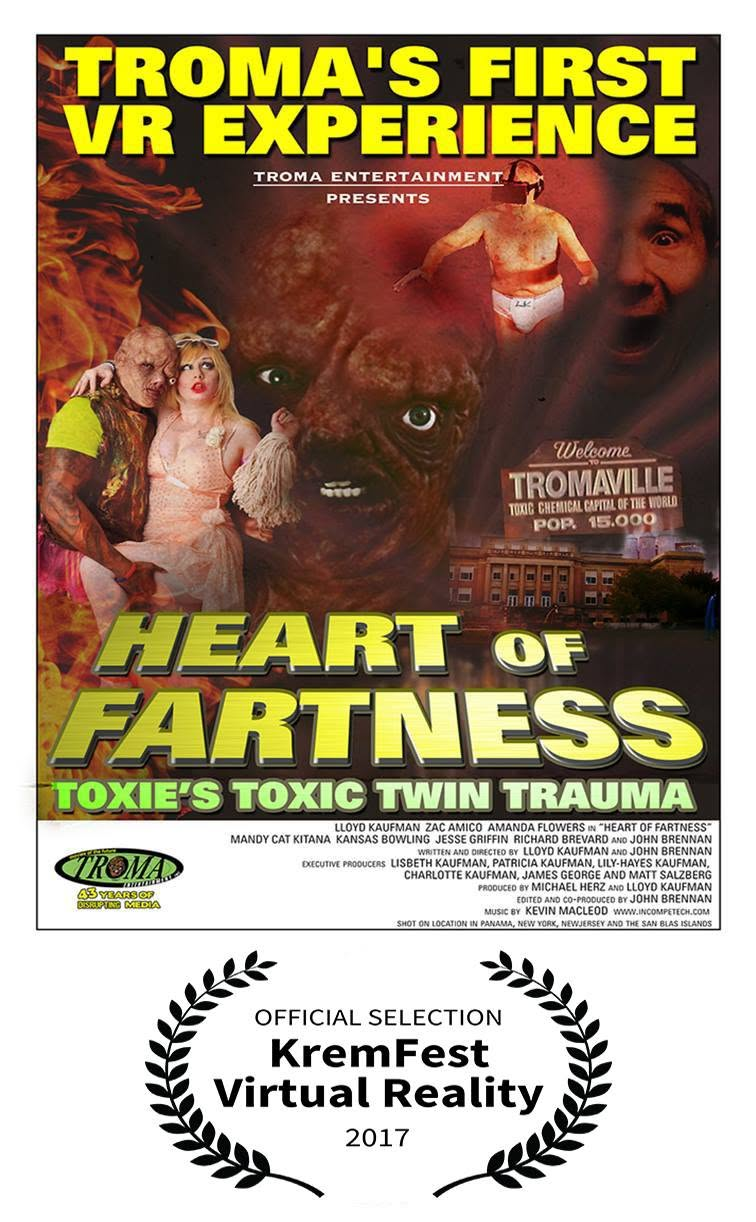
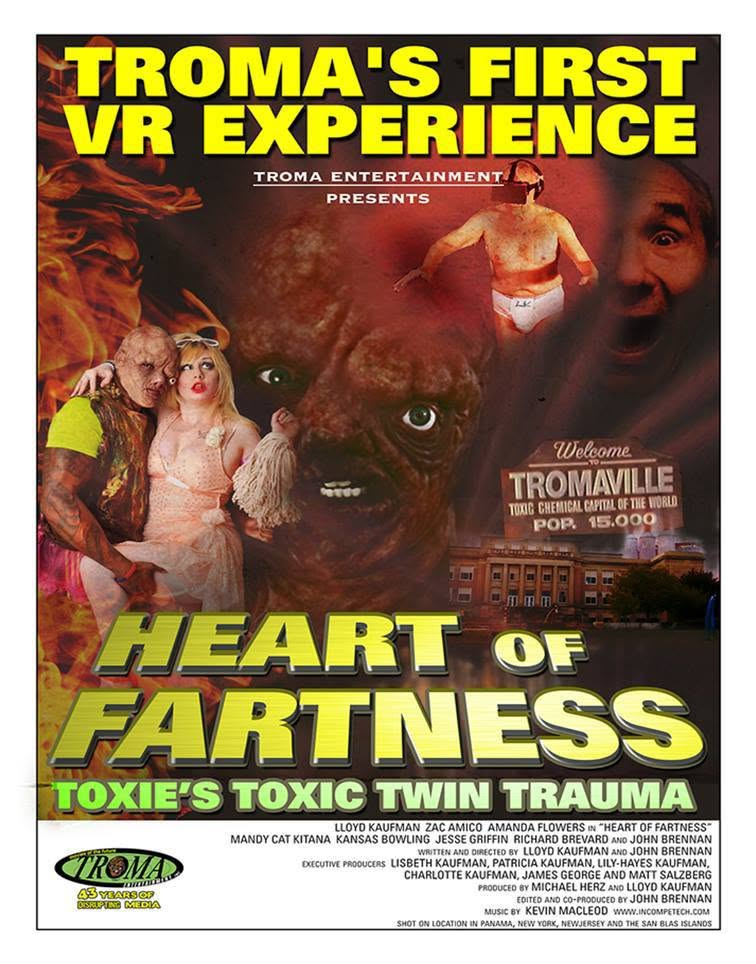
feat(2017): Integrate Shameful Conquest laurels and cropped Troma poster (v0.1.33)

diff --git a/dashboard/index.html b/dashboard/index.html
@@ -121,7 +121,7 @@
       <span style="color:#94a3b8; font-size:0.85rem;">Active Substrate</span>
     </div>
     <div class="stats-row">
-      <span class="stat-pill pill-qa">🧪 19 Waiting QA</span>
+      <span class="stat-pill pill-qa">🧪 20 Waiting QA</span>
       <span class="stat-pill pill-prog">🛠 1 In Progress</span>
       <span class="stat-pill pill-done">🏆 12 Verified</span>
       <span class="stat-pill pill-meta">🎬 25 Master Projects</span>
@@ -151,7 +151,7 @@
     <div class="card">
       <h2 style="color:var(--neon-yellow);">🧪 Waiting for QA (Verification)</h2>
       <ul style="list-style:none; padding:0;">
-        <li style="margin-bottom:8px; color:#f1f5f9; font-size:0.9rem;">🧪 🏗 🔥🔥🔥 **2017 Genesis Archive Visuals & Troma Official Selection Poster (v0.1.32):** Integrated the authentic 2017 Kremfest festival poster (`kremfest_2017_banner.webp`) into the 2017 guide hero, linked the authentic Troma *Heart of Fartness* poster with official KremFest VR 2017 laurel (`heart_of_fartness_2017.jpg`), and cleanly cleared placeholder imagery for *Shameful Conquest*. 🧪 🏛 🖼 🎬 🥽 🧙♂ 🐈</li><li style="margin-bottom:8px; color:#f1f5f9; font-size:0.9rem;">🧪 🏗 🔥🔥🔥 **2018 & 2019 Experience Title Highlighting & Master Marketing/AI Frameworks (v0.1.31):** Formatted all experience titles in bold quotes across 2018 and 2019 hero introduction texts, created comprehensive multi-platform social media campaign launch grimoire (LinkedIn, Facebook, Reddit, Instagram, Bluesky), and drafted the 0–5 Heat Meter AI Transparency and Post-Submission Intake Framework. 🧪 📢 🤖 ✍ 🥽 🧙♂ 🐈</li><li style="margin-bottom:8px; color:#f1f5f9; font-size:0.9rem;">🧪 🏗 🔥🔥🔥 **2019 Sponsor Alignment (Immersive Square Excluded from 2019 - v0.1.30):** Removed Immersive Square logo from 2019 retrospective sponsors (preserving Vuze by HumanEyes, Infinity Quest, and SIXR) while retaining Immersive Square strictly in 2018 where they participated. 🧪 🏛 📸 🥽 🧙♂ 🐈</li><li style="margin-bottom:8px; color:#f1f5f9; font-size:0.9rem;">🧪 🏗 🔥🔥🔥 **Footer Navigation Direction Reversal & Right-Aligned Mobile QR (v0.1.29):** Reordered footer columns across all static portals so Venue & Location is on the far left, followed by Festival Links and Historical Archives, with KremFest XR Showcase and its color QR code anchored to the far right and aligned cleanly with the right boundary. 🧪 📱 📍 🌐 🧙♂ 🐈</li><li style="margin-bottom:8px; color:#f1f5f9; font-size:0.9rem;">🧪 🏗 🔥🔥🔥 **2018 Complete Presenters & 5-Sponsor Suite Integration (v0.1.28):** Integrated full 7-asset historical presenter and partner suite into the 2018 retrospective footer — displaying prominent side-by-side featured cards for VR Maker Dome Geodesic Dome and UpLiftVR Studios (SIFF 2018 Selection / Larry James) above the unified sponsors row (Infinity Quest, SIXR, Vuze by HumanEyes, Immersive Square, WonderTek Labs). 🧪 🎪 🖼 📸 🥽 🧙♂ 🐈</li><li style="margin-bottom:8px; color:#f1f5f9; font-size:0.9rem;">🧪 🏗 🔥🔥🔥 **2018 & 2019 Diamond Divider Balancing (v0.1.27):** Eliminated redundant duplicate diamond divider before the Curated & Presented showcase box and positioned a clean single diamond separator before the footer and studio strip. 🧪 💎 ✦ 🌐 🧙♂ 🐈</li><li style="margin-bottom:8px; color:#f1f5f9; font-size:0.9rem;">🧪 🏗 🔥🔥🔥 **Authentic KremFest 2018 Festival Poster Banner Integration (v0.1.26):** Exported and integrated the official KremFest 2018 festival artwork poster (hot pink with yellow/blue circular globe lineup) directly to the header of the 2018 retrospective program guide. 🧪 🖼 🎨 🎪 🥽 🧙♂ 🐈</li><li style="margin-bottom:8px; color:#f1f5f9; font-size:0.9rem;">🧪 🏗 🔥🔥🔥 **Footer Attribution Alignment (Wulf Design Studios • Curated by Kremfest XR, VRMakerDome. & UpLiftVR Studios - v0.1.24):** Standardized primary copyright and curation attribution across all static portal pages and ballots to explicitly reflect `© 2017–2026 Wulf Design Studios • Curated by Kremfest XR, VRMakerDome. & UpLiftVR Studios`. 🧪 🏛 ✍ 🌐 🧙♂ 🐈</li><li style="margin-bottom:8px; color:#f1f5f9; font-size:0.9rem;">🧪 🏗 🔥🔥🔥 **GitHub Remote Repositories Linkage (Public & Private - v0.1.23):** Configured upstream git remote origin tracking for public showcase repository (`https://github.com/wulfdesign/kremfest-xr.git`) and private sanctuary repository (`https://github.com/wulfdesign/kremfest-xr-private.git`), staging them for push authorization upon operator QA verification. 🧪 🐙 🛡 🔗 🌐 🧙♂ 🐈</li><li style="margin-bottom:8px; color:#f1f5f9; font-size:0.9rem;">🧪 🏗 🔥🔥🔥 **2019 Presenters, Geodesic Dome Booth & Sponsor Showcase (v0.1.22):** Integrated the authentic 2019 geodesic dome installation photo, Infinity Quest live streaming production banner, SIXR logo, Vuze by HumanEyes camera badge, and Immersive Square logo into the curated 2019 retrospective footer. 🧪 🎪 🖼 📸 🥽 🧙♂ 🐈</li><li style="margin-bottom:8px; color:#f1f5f9; font-size:0.9rem;">🧪 🏗 🔥🔥🔥 **2018 Presenters, Geodesic Dome Booth & Sponsor Showcase (v0.1.21):** Extracted and integrated the original 2018 geodesic dome booth installation photo (featuring Larry James / VR Maker Dome at Kremfest 2018), Infinity Quest production streaming banner, SIXR logo, Vuze by HumanEyes camera badge, and Immersive Square logo into the curated 2018 retrospective footer. 🧪 🎪 🖼 📸 🥽 🧙♂ 🐈</li><li style="margin-bottom:8px; color:#f1f5f9; font-size:0.9rem;">🧪 🏗 🔥🔥🔥 **2019 & 2018 Visual Asset Alignment & Image Placement Calibration (v0.1.20):** Resolved sequential off-by-one image mapping shifts across 2019 and 2018 archives by visually verifying each experience asset against raw archive documents (calibrating All Around You space swirl, Blood Sisters witch coven, Space Chase with Spot dog cockpit, Ready Hunty One disco glitter, 7 Lives poster, High Desert Eclipse 360 panorama, Maiden Flight SIFF laurel, Bloodthirsty red triangle, Lionhearted refugees, Walter palm trees, RocketMan astronaut, and Crackle horror). 🧪 🖼 🎨 📸 🥽 🧙♂ 🐈</li><li style="margin-bottom:8px; color:#f1f5f9; font-size:0.9rem;">🧪 🏗 🔥🔥🔥 **High Desert Eclipse & Maiden Flight FilmFreeway & Portal Link Refinement (v0.1.19):** Corrected High Desert Eclipse FilmFreeway URL to https://filmfreeway.com/HighDesertEclipse, streamlined profile link text to concise "FilmFreeway" across both headliners, and renamed all "Webportal & Eclipse Story" links to "Eclipse Story Portal" across all multi-year retrospective and active showcase archives. 🧪 🔗 🎬 🥽 🌐 🧙♂ 🐈</li><li style="margin-bottom:8px; color:#f1f5f9; font-size:0.9rem;">🧪 🏗 🔥🔥🔥 **Official Kremwerk Festival Doors Open Timing Calibration (10:00 PM PDT - v0.1.16):** Scraped and verified the live Kremwerk website event calendar and JSON-LD schema (confirming Friday & Saturday official doors open at 10:00 PM PDT / 22:00 through 4:00 AM) and updated all countdown engines, timestamps, and hero copy across index.html, 2026/index.html, and main.js to accurately reflect 10:00 PM doors. 🧪 ⏰ 🎪 ⚡ 🌐 🧙♂ 🐈</li><li style="margin-bottom:8px; color:#f1f5f9; font-size:0.9rem;">🧪 🏗 🔥🔥🔥 **Global Geographic Venue Formatting (Seattle, WA • USA - v0.1.12):** Updated all venue address callouts, schedule badges, and footers across static portals and documentation to explicitly state "Kremwerk Complex (1809 Minor Ave, Seattle, WA • USA)" for clear international and global audience readability. 🧪 📍 🗺 🌐 🧙♂ 🐈</li><li style="margin-bottom:8px; color:#f1f5f9; font-size:0.9rem;">🧪 🏗 🔥🔥🔥 **Festival Doors Open & Submissions Close Live Countdowns (v0.1.11):** Integrated dual live digital countdown engines across home and 2026 active portal — featuring a Doors Open countdown in the hero section ticking down to Friday Sept 25 opening, and a dual-phase submissions deadline countdown inside the FilmFreeway callout block ticking down to Sept 21 deadline before automatically pivoting to the Friday 10:00 PM showcase premiere countdown. 🧪 ⏳ 🎪 📡 🎬 🥽 🧙♂ 🐈</li><li style="margin-bottom:8px; color:#f1f5f9; font-size:0.9rem;">🧪 🏗 🔥🔥🔥 **Verified Ticket Links, UTM Attribution & Conversion Strategy (v0.1.10):** Synchronized working Friday (/kremfest-2026-friday), Saturday (/kremfest-2026-saturday), and Weekend (/kremfest-2026-weekend-pass) ticket routes on kremwerk.com with standardized UTM referral tracking parameters (utm_source=kremfest-xr&utm_medium=referral&utm_campaign=kremfest2026) across static portals and generated a comprehensive analytics & conversion strategy grimoire in private sanctuary. 🧪 🎟 📈 📊 🧙♂ 🐈</li><li style="margin-bottom:8px; color:#f1f5f9; font-size:0.9rem;">🧪 🏗 🔥🔥🔥 **Live Audience Choice Countdown & Time-Gated Ballot Engine (v0.1.9):** Deployed live digital countdown header with tri-phase chromatic state engine (🟡 Yellow Pre-Voting with countdown till Friday Sept 25 -> 🟢 Green Live Open with countdown till Sunday Sept 27 Midnight -> 🔴 Red Closed 00:00:00), locked ballot submission prior to festival opening, integrated QA preview clock controls, and showcased official XR hours (Friday & Saturday 10:00 PM – 1:00 AM nightly) across 2026 portal and voting ballots. 🧪 ⏳ 🗳 🟢 🔴 🥽 🧙♂ 🐈</li><li style="margin-bottom:8px; color:#f1f5f9; font-size:0.9rem;">🧪 🏗 🔥🔥🔥 **Direct Media & Ticket Link Alignment (Maiden Flight, High Desert Eclipse & 2-Row Hero Buttons - v0.1.8):** Calibrated live YouTube 360 trailers for Maiden Flight (https://youtu.be/FHIc24WiViY) and High Desert Eclipse (https://youtu.be/fzcFw_33iC8), updated Meta Quest Store link, integrated the High Desert Eclipse webportal/story link (https://wulfdesign.github.io/high-desert-eclipse/) across all years, and split hero action buttons into 2 clean rows (Submit/Ballot on row 1; Friday/Saturday/Weekend passes on row 2). 🧪 🥽 🎟 🎬 🧙♂ 🐈</li>
+        <li style="margin-bottom:8px; color:#f1f5f9; font-size:0.9rem;">🧪 🏗 🔥🔥🔥 **2017 Shameful Conquest Selection Laurels & Cropped Troma Poster Integration (v0.1.33):** Integrated dedicated official selection laurel artwork (`Shameful-Conquest_Official-Selection-Laurals.png`) for *Shameful Conquest*, deployed cropped standalone *Heart of Fartness* poster (`heart_of_fartness_2017.jpg`), and propagated both assets into private sanctuary folders. 🧪 🏛 🖼 🎬 🥽 🧙♂ 🐈</li><li style="margin-bottom:8px; color:#f1f5f9; font-size:0.9rem;">🧪 🏗 🔥🔥🔥 **2017 Genesis Archive Visuals & Troma Official Selection Poster (v0.1.32):** Integrated the authentic 2017 Kremfest festival poster (`kremfest_2017_banner.webp`) into the 2017 guide hero, linked the authentic Troma *Heart of Fartness* poster with official KremFest VR 2017 laurel (`heart_of_fartness_2017.jpg`), and cleanly cleared placeholder imagery for *Shameful Conquest*. 🧪 🏛 🖼 🎬 🥽 🧙♂ 🐈</li><li style="margin-bottom:8px; color:#f1f5f9; font-size:0.9rem;">🧪 🏗 🔥🔥🔥 **2018 & 2019 Experience Title Highlighting & Master Marketing/AI Frameworks (v0.1.31):** Formatted all experience titles in bold quotes across 2018 and 2019 hero introduction texts, created comprehensive multi-platform social media campaign launch grimoire (LinkedIn, Facebook, Reddit, Instagram, Bluesky), and drafted the 0–5 Heat Meter AI Transparency and Post-Submission Intake Framework. 🧪 📢 🤖 ✍ 🥽 🧙♂ 🐈</li><li style="margin-bottom:8px; color:#f1f5f9; font-size:0.9rem;">🧪 🏗 🔥🔥🔥 **2019 Sponsor Alignment (Immersive Square Excluded from 2019 - v0.1.30):** Removed Immersive Square logo from 2019 retrospective sponsors (preserving Vuze by HumanEyes, Infinity Quest, and SIXR) while retaining Immersive Square strictly in 2018 where they participated. 🧪 🏛 📸 🥽 🧙♂ 🐈</li><li style="margin-bottom:8px; color:#f1f5f9; font-size:0.9rem;">🧪 🏗 🔥🔥🔥 **Footer Navigation Direction Reversal & Right-Aligned Mobile QR (v0.1.29):** Reordered footer columns across all static portals so Venue & Location is on the far left, followed by Festival Links and Historical Archives, with KremFest XR Showcase and its color QR code anchored to the far right and aligned cleanly with the right boundary. 🧪 📱 📍 🌐 🧙♂ 🐈</li><li style="margin-bottom:8px; color:#f1f5f9; font-size:0.9rem;">🧪 🏗 🔥🔥🔥 **2018 Complete Presenters & 5-Sponsor Suite Integration (v0.1.28):** Integrated full 7-asset historical presenter and partner suite into the 2018 retrospective footer — displaying prominent side-by-side featured cards for VR Maker Dome Geodesic Dome and UpLiftVR Studios (SIFF 2018 Selection / Larry James) above the unified sponsors row (Infinity Quest, SIXR, Vuze by HumanEyes, Immersive Square, WonderTek Labs). 🧪 🎪 🖼 📸 🥽 🧙♂ 🐈</li><li style="margin-bottom:8px; color:#f1f5f9; font-size:0.9rem;">🧪 🏗 🔥🔥🔥 **2018 & 2019 Diamond Divider Balancing (v0.1.27):** Eliminated redundant duplicate diamond divider before the Curated & Presented showcase box and positioned a clean single diamond separator before the footer and studio strip. 🧪 💎 ✦ 🌐 🧙♂ 🐈</li><li style="margin-bottom:8px; color:#f1f5f9; font-size:0.9rem;">🧪 🏗 🔥🔥🔥 **Authentic KremFest 2018 Festival Poster Banner Integration (v0.1.26):** Exported and integrated the official KremFest 2018 festival artwork poster (hot pink with yellow/blue circular globe lineup) directly to the header of the 2018 retrospective program guide. 🧪 🖼 🎨 🎪 🥽 🧙♂ 🐈</li><li style="margin-bottom:8px; color:#f1f5f9; font-size:0.9rem;">🧪 🏗 🔥🔥🔥 **Footer Attribution Alignment (Wulf Design Studios • Curated by Kremfest XR, VRMakerDome. & UpLiftVR Studios - v0.1.24):** Standardized primary copyright and curation attribution across all static portal pages and ballots to explicitly reflect `© 2017–2026 Wulf Design Studios • Curated by Kremfest XR, VRMakerDome. & UpLiftVR Studios`. 🧪 🏛 ✍ 🌐 🧙♂ 🐈</li><li style="margin-bottom:8px; color:#f1f5f9; font-size:0.9rem;">🧪 🏗 🔥🔥🔥 **GitHub Remote Repositories Linkage (Public & Private - v0.1.23):** Configured upstream git remote origin tracking for public showcase repository (`https://github.com/wulfdesign/kremfest-xr.git`) and private sanctuary repository (`https://github.com/wulfdesign/kremfest-xr-private.git`), staging them for push authorization upon operator QA verification. 🧪 🐙 🛡 🔗 🌐 🧙♂ 🐈</li><li style="margin-bottom:8px; color:#f1f5f9; font-size:0.9rem;">🧪 🏗 🔥🔥🔥 **2019 Presenters, Geodesic Dome Booth & Sponsor Showcase (v0.1.22):** Integrated the authentic 2019 geodesic dome installation photo, Infinity Quest live streaming production banner, SIXR logo, Vuze by HumanEyes camera badge, and Immersive Square logo into the curated 2019 retrospective footer. 🧪 🎪 🖼 📸 🥽 🧙♂ 🐈</li><li style="margin-bottom:8px; color:#f1f5f9; font-size:0.9rem;">🧪 🏗 🔥🔥🔥 **2018 Presenters, Geodesic Dome Booth & Sponsor Showcase (v0.1.21):** Extracted and integrated the original 2018 geodesic dome booth installation photo (featuring Larry James / VR Maker Dome at Kremfest 2018), Infinity Quest production streaming banner, SIXR logo, Vuze by HumanEyes camera badge, and Immersive Square logo into the curated 2018 retrospective footer. 🧪 🎪 🖼 📸 🥽 🧙♂ 🐈</li><li style="margin-bottom:8px; color:#f1f5f9; font-size:0.9rem;">🧪 🏗 🔥🔥🔥 **2019 & 2018 Visual Asset Alignment & Image Placement Calibration (v0.1.20):** Resolved sequential off-by-one image mapping shifts across 2019 and 2018 archives by visually verifying each experience asset against raw archive documents (calibrating All Around You space swirl, Blood Sisters witch coven, Space Chase with Spot dog cockpit, Ready Hunty One disco glitter, 7 Lives poster, High Desert Eclipse 360 panorama, Maiden Flight SIFF laurel, Bloodthirsty red triangle, Lionhearted refugees, Walter palm trees, RocketMan astronaut, and Crackle horror). 🧪 🖼 🎨 📸 🥽 🧙♂ 🐈</li><li style="margin-bottom:8px; color:#f1f5f9; font-size:0.9rem;">🧪 🏗 🔥🔥🔥 **High Desert Eclipse & Maiden Flight FilmFreeway & Portal Link Refinement (v0.1.19):** Corrected High Desert Eclipse FilmFreeway URL to https://filmfreeway.com/HighDesertEclipse, streamlined profile link text to concise "FilmFreeway" across both headliners, and renamed all "Webportal & Eclipse Story" links to "Eclipse Story Portal" across all multi-year retrospective and active showcase archives. 🧪 🔗 🎬 🥽 🌐 🧙♂ 🐈</li><li style="margin-bottom:8px; color:#f1f5f9; font-size:0.9rem;">🧪 🏗 🔥🔥🔥 **Official Kremwerk Festival Doors Open Timing Calibration (10:00 PM PDT - v0.1.16):** Scraped and verified the live Kremwerk website event calendar and JSON-LD schema (confirming Friday & Saturday official doors open at 10:00 PM PDT / 22:00 through 4:00 AM) and updated all countdown engines, timestamps, and hero copy across index.html, 2026/index.html, and main.js to accurately reflect 10:00 PM doors. 🧪 ⏰ 🎪 ⚡ 🌐 🧙♂ 🐈</li><li style="margin-bottom:8px; color:#f1f5f9; font-size:0.9rem;">🧪 🏗 🔥🔥🔥 **Global Geographic Venue Formatting (Seattle, WA • USA - v0.1.12):** Updated all venue address callouts, schedule badges, and footers across static portals and documentation to explicitly state "Kremwerk Complex (1809 Minor Ave, Seattle, WA • USA)" for clear international and global audience readability. 🧪 📍 🗺 🌐 🧙♂ 🐈</li><li style="margin-bottom:8px; color:#f1f5f9; font-size:0.9rem;">🧪 🏗 🔥🔥🔥 **Festival Doors Open & Submissions Close Live Countdowns (v0.1.11):** Integrated dual live digital countdown engines across home and 2026 active portal — featuring a Doors Open countdown in the hero section ticking down to Friday Sept 25 opening, and a dual-phase submissions deadline countdown inside the FilmFreeway callout block ticking down to Sept 21 deadline before automatically pivoting to the Friday 10:00 PM showcase premiere countdown. 🧪 ⏳ 🎪 📡 🎬 🥽 🧙♂ 🐈</li><li style="margin-bottom:8px; color:#f1f5f9; font-size:0.9rem;">🧪 🏗 🔥🔥🔥 **Verified Ticket Links, UTM Attribution & Conversion Strategy (v0.1.10):** Synchronized working Friday (/kremfest-2026-friday), Saturday (/kremfest-2026-saturday), and Weekend (/kremfest-2026-weekend-pass) ticket routes on kremwerk.com with standardized UTM referral tracking parameters (utm_source=kremfest-xr&utm_medium=referral&utm_campaign=kremfest2026) across static portals and generated a comprehensive analytics & conversion strategy grimoire in private sanctuary. 🧪 🎟 📈 📊 🧙♂ 🐈</li><li style="margin-bottom:8px; color:#f1f5f9; font-size:0.9rem;">🧪 🏗 🔥🔥🔥 **Live Audience Choice Countdown & Time-Gated Ballot Engine (v0.1.9):** Deployed live digital countdown header with tri-phase chromatic state engine (🟡 Yellow Pre-Voting with countdown till Friday Sept 25 -> 🟢 Green Live Open with countdown till Sunday Sept 27 Midnight -> 🔴 Red Closed 00:00:00), locked ballot submission prior to festival opening, integrated QA preview clock controls, and showcased official XR hours (Friday & Saturday 10:00 PM – 1:00 AM nightly) across 2026 portal and voting ballots. 🧪 ⏳ 🗳 🟢 🔴 🥽 🧙♂ 🐈</li><li style="margin-bottom:8px; color:#f1f5f9; font-size:0.9rem;">🧪 🏗 🔥🔥🔥 **Direct Media & Ticket Link Alignment (Maiden Flight, High Desert Eclipse & 2-Row Hero Buttons - v0.1.8):** Calibrated live YouTube 360 trailers for Maiden Flight (https://youtu.be/FHIc24WiViY) and High Desert Eclipse (https://youtu.be/fzcFw_33iC8), updated Meta Quest Store link, integrated the High Desert Eclipse webportal/story link (https://wulfdesign.github.io/high-desert-eclipse/) across all years, and split hero action buttons into 2 clean rows (Submit/Ballot on row 1; Friday/Saturday/Weekend passes on row 2). 🧪 🥽 🎟 🎬 🧙♂ 🐈</li>
       </ul>
     </div>
 

diff --git a/2017/index.html b/2017/index.html
@@ -48,7 +48,7 @@
     <h2 class="group-heading">2017 Official Selections</h2>
     
     <article class="project-entry" id="2017-sel-shameful-conquest">
-      
+      <img class="project-image" src="../assets/images/2017/Shameful-Conquest_Official-Selection-Laurals.png" alt="Shameful Conquest" loading="lazy">
       <h3 class="project-title">Shameful Conquest</h3>
       <div class="project-byline">By Dr. Sarah Jones & Steve Dawkins</div>
       

diff --git a/tasks.md b/tasks.md
@@ -24,6 +24,7 @@ DO NOT mark any task as done (🏆 or [x]) until the Human-in-the-Loop (Magus Wu
 
 ### 🧪 Waiting for QA (🧪)
 
+* [ ] 🧪 🏗 🔥🔥🔥 **2017 Shameful Conquest Selection Laurels & Cropped Troma Poster Integration (v0.1.33):** Integrated dedicated official selection laurel artwork (`Shameful-Conquest_Official-Selection-Laurals.png`) for *Shameful Conquest*, deployed cropped standalone *Heart of Fartness* poster (`heart_of_fartness_2017.jpg`), and propagated both assets into private sanctuary folders. 🧪 🏛 🖼 🎬 🥽 🧙♂ 🐈
 * [ ] 🧪 🏗 🔥🔥🔥 **2017 Genesis Archive Visuals & Troma Official Selection Poster (v0.1.32):** Integrated the authentic 2017 Kremfest festival poster (`kremfest_2017_banner.webp`) into the 2017 guide hero, linked the authentic Troma *Heart of Fartness* poster with official KremFest VR 2017 laurel (`heart_of_fartness_2017.jpg`), and cleanly cleared placeholder imagery for *Shameful Conquest*. 🧪 🏛 🖼 🎬 🥽 🧙♂ 🐈
 * [ ] 🧪 🏗 🔥🔥🔥 **2018 & 2019 Experience Title Highlighting & Master Marketing/AI Frameworks (v0.1.31):** Formatted all experience titles in bold quotes across 2018 and 2019 hero introduction texts, created comprehensive multi-platform social media campaign launch grimoire (LinkedIn, Facebook, Reddit, Instagram, Bluesky), and drafted the 0–5 Heat Meter AI Transparency and Post-Submission Intake Framework. 🧪 📢 🤖 ✍ 🥽 🧙♂ 🐈
 * [ ] 🧪 🏗 🔥🔥🔥 **2019 Sponsor Alignment (Immersive Square Excluded from 2019 - v0.1.30):** Removed Immersive Square logo from 2019 retrospective sponsors (preserving Vuze by HumanEyes, Infinity Quest, and SIXR) while retaining Immersive Square strictly in 2018 where they participated. 🧪 🏛 📸 🥽 🧙♂ 🐈

diff --git a/devlog.md b/devlog.md
@@ -4,6 +4,20 @@
 > 🚀 (Release/Major) | 🛠 (Work Done) | 🧪 (Aligned/QA) | 🩹 (Fix) | 🧹 (Cleanup) | 📦 (Consolidation)  
 > 🐈 (Hermes) | 🦞 (MugWort) | 🌌 (Portal) | 🛡 (Security)  
 
+### **[2026-08-28 14:23] - v0.1.33: 2017 Shameful Conquest Laurels & Cropped Troma Poster Integration 🚀🏛🖼✨**
+
+📝 **Summary**
+1. **Shameful Conquest Official Laurels:**
+   - Deployed dedicated official selection laurels artwork (`assets/images/2017/Shameful-Conquest_Official-Selection-Laurals.png`) to the *Shameful Conquest* showcase card.
+2. **Cropped Troma Poster:**
+   - Cleanly cropped out the excess white bottom container from *Heart of Fartness: Toxie's Toxic Twin Trauma* poster (`assets/images/2017/heart_of_fartness_2017.jpg`).
+3. **Private Sanctuary Propagation:**
+   - Copied both refined assets into `projects/kremfest-xr/private/import/` and `projects/kremfest-xr/private/assets/images/2017/`.
+4. **Dashboards Recompiled:**
+   - Standalone and master ecosystem dashboards recompiled. 🚀 🏛 🖼 🎬 🥽 🧙♂ 🐈 ✨
+
+---
+
 ### **[2026-08-27 19:45] - v0.1.32: 2017 Genesis Archive Visuals & Troma Official Selection Poster 🚀🏛🖼✨**
 
 📝 **Summary**

diff --git a/README.md b/README.md
@@ -4,8 +4,9 @@
 > **Presented & Curated by:** VRMakerDome & UpLiftVR Studios (`Larry James & Julia Jackson`)  
 > **Festival Partner:** Kremwerk Complex & Julia Camp (Seattle, WA)  
 > **Public URL:** `https://wulfdesign.github.io/kremfest-xr/`  
-> **Current Version:** `v0.1.32`  
+> **Current Version:** `v0.1.33`  
 > **Ecosystem Node:** `projects/kremfest-xr`  
+
 
 
 
